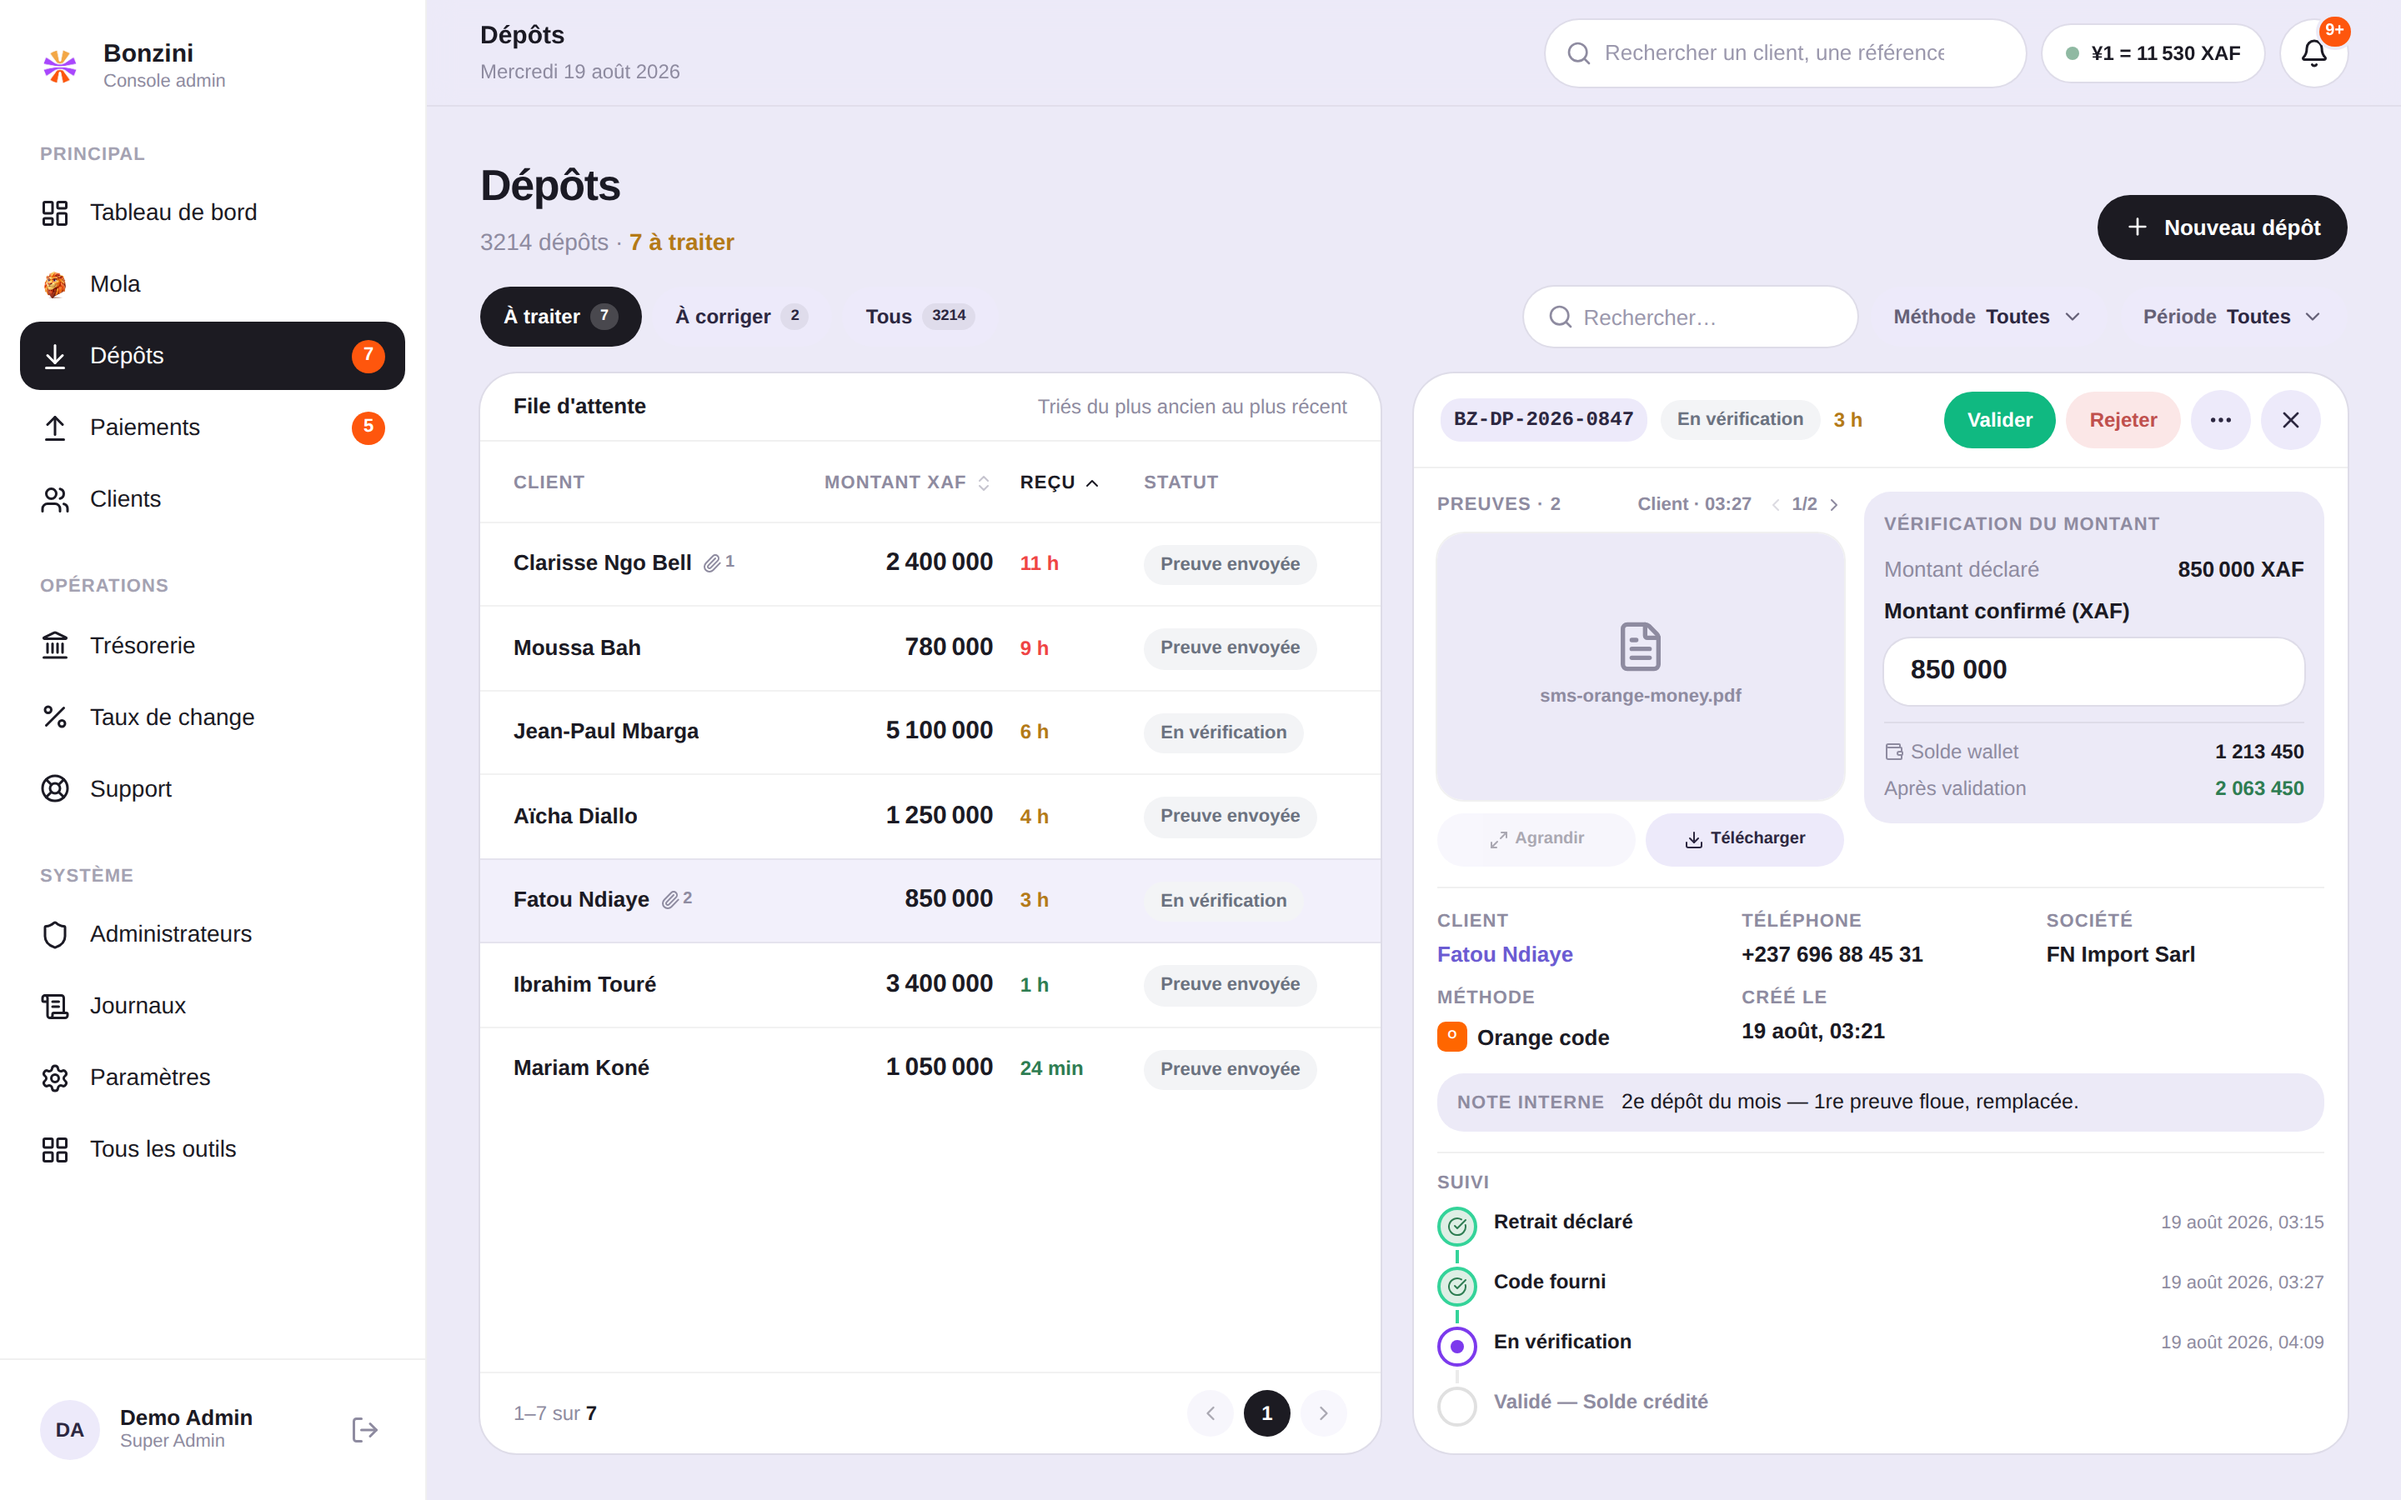
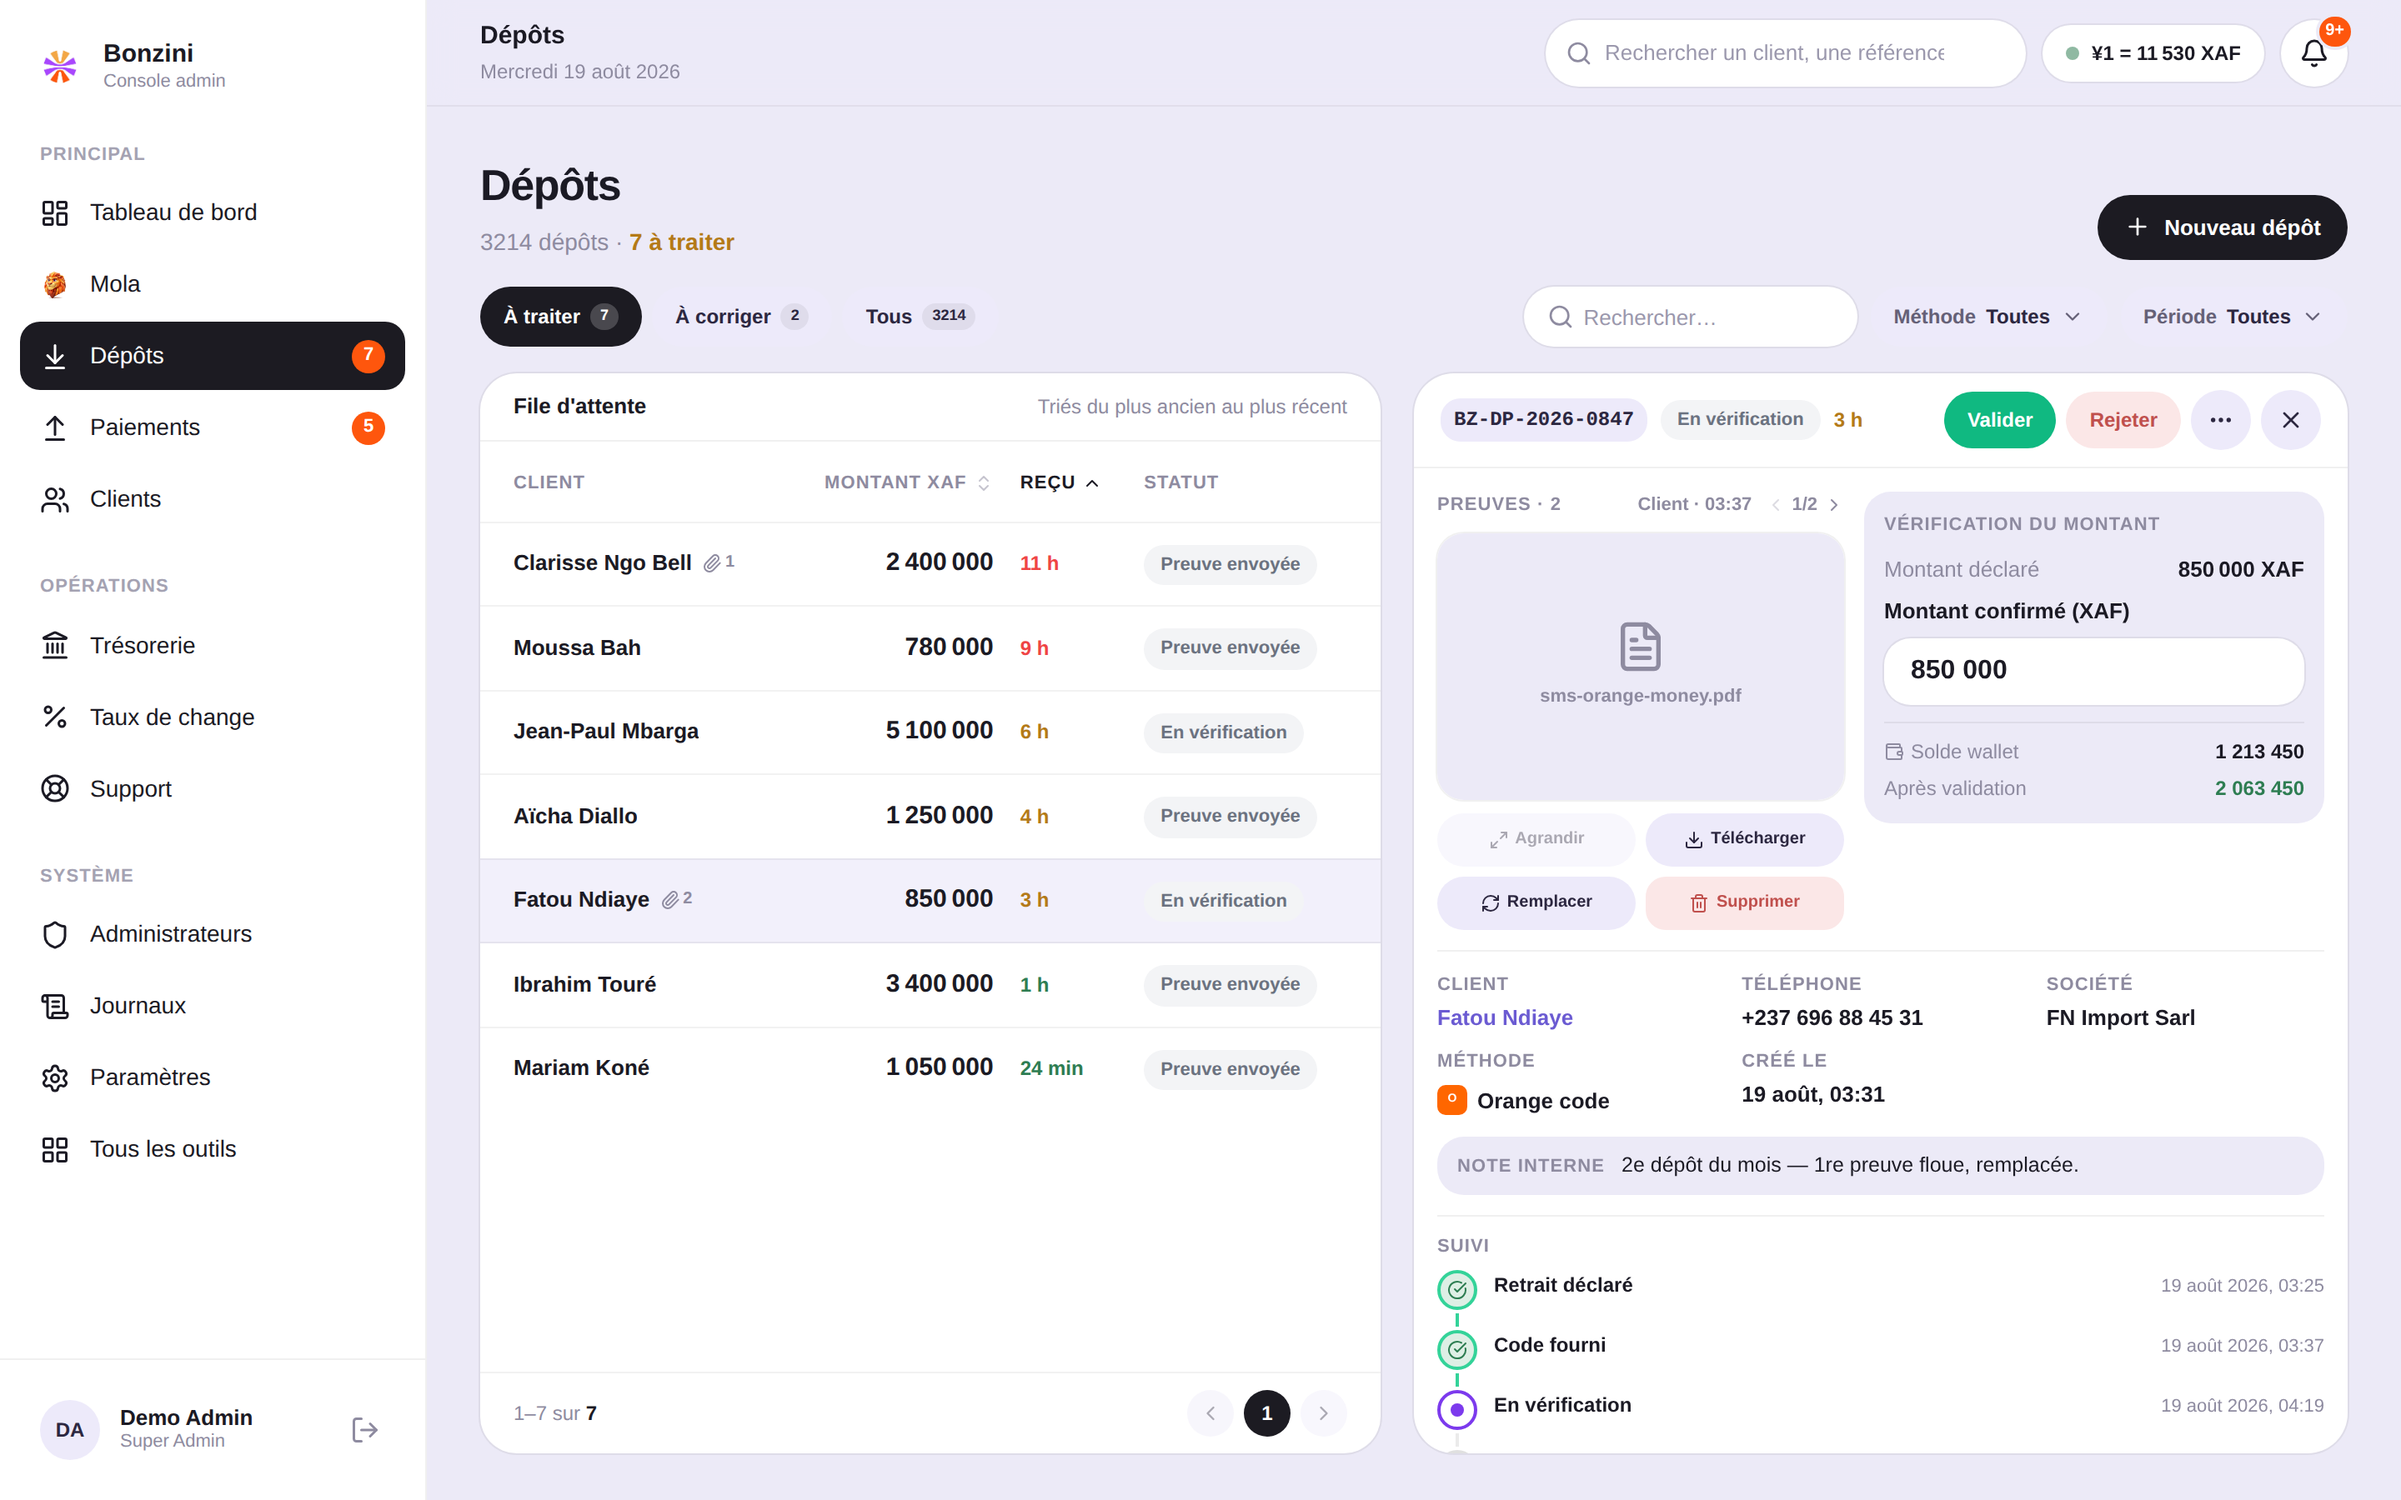
Deposit panel: proof replace/delete with reasoned audit trail; accurate harness counters
- DesktopDepositPanel now covers the full proof lifecycle: view/lightbox/
  download, add (Ctrl+V), REPLACE (upload new version then traced delete of
  the old — same sequence as the mobile fiche) and DELETE behind a mandatory
  reasoned dialog (PROOF_DELETE_REASONS + free text for Autre)
- adminFixtures.headCount now mirrors usePaymentStats' per-status eq-count
  queries exactly — the fixture-only '11744 à traiter' artifact is gone

Claude-Session: https://claude.ai/code/session_019kCQrbrB6qBu75nMSyyPWR

diff --git a/src/desktop/screens/deposits/DesktopDepositPanel.tsx b/src/desktop/screens/deposits/DesktopDepositPanel.tsx
@@ -11,7 +11,7 @@
  * Fixes the audit's permission gap: every action is gated on
  * hasPermission('canProcessDeposits'), not on status alone.
  */
-import { useState, useEffect, useCallback } from 'react';
+import { useState, useEffect, useCallback, useRef } from 'react';
 import { useNavigate, useSearchParams } from 'react-router-dom';
 import {
   useAdminDepositDetail,
@@ -22,9 +22,10 @@ import {
   useRejectDeposit,
   useStartDepositReview,
   useAdminUploadProofs,
+  useAdminDeleteProof,
   useCancelDeposit,
 } from '@/hooks/useAdminDeposits';
-import { DEPOSIT_STATUS_LABELS, DEPOSIT_METHOD_LABELS_SHORT, REJECTION_REASONS } from '@/types/deposit';
+import { DEPOSIT_STATUS_LABELS, DEPOSIT_METHOD_LABELS_SHORT, REJECTION_REASONS, PROOF_DELETE_REASONS } from '@/types/deposit';
 import { buildDepositTimelineSteps, getDepositSlaLevel } from '@/lib/depositTimeline';
 import { getFamilyFromMethod } from '@/lib/depositsList';
 import { formatCurrency } from '@/lib/formatters';
@@ -64,6 +65,7 @@ import {
   Download,
   MoreHorizontal,
   Plus,
+  RefreshCw,
   Trash2,
   Wallet,
   X,
@@ -77,6 +79,7 @@ import { DepositReceiptPDF, type DepositReceiptData } from '@/lib/pdf/templates/
 import { PasteDropZone } from '@/components/upload/PasteDropZone';
 import { FilePreviewGrid } from '@/components/upload/FilePreviewGrid';
 import { usePasteFiles } from '@/hooks/usePasteFiles';
+import { partitionUploadFiles, rejectionMessage, ACCEPT_UPLOAD } from '@/lib/clipboardFiles';
 
 function fmt(n: number) {
   return Math.abs(n).toString().replace(/\B(?=(\d{3})+(?!\d))/g, ' ');
@@ -138,6 +141,7 @@ export function DesktopDepositPanel({ depositId }: { depositId: string }) {
   const rejectDeposit = useRejectDeposit();
   const startReview = useStartDepositReview();
   const uploadProofs = useAdminUploadProofs();
+  const deleteProof = useAdminDeleteProof();
   const cancelDeposit = useCancelDeposit();
 
   const [proofIndex, setProofIndex] = useState(0);
@@ -155,6 +159,11 @@ export function DesktopDepositPanel({ depositId }: { depositId: string }) {
   const [selectedFiles, setSelectedFiles] = useState<File[]>([]);
   const [menuOpen, setMenuOpen] = useState(false);
   const [isGeneratingPDF, setIsGeneratingPDF] = useState(false);
+  const [deleteProofId, setDeleteProofId] = useState<string | null>(null);
+  const [deleteProofReason, setDeleteProofReason] = useState('');
+  const [customDeleteReason, setCustomDeleteReason] = useState('');
+  const [replaceProofId, setReplaceProofId] = useState<string | null>(null);
+  const replaceFileRef = useRef<HTMLInputElement>(null);
 
   useEffect(() => {
     if (deposit) setConfirmedAmount(deposit.amount_xaf.toString());
@@ -234,6 +243,52 @@ export function DesktopDepositPanel({ depositId }: { depositId: string }) {
       },
     );
   }, [depositId, rejectionCategory, clientMessage, adminNote, rejectDeposit]);
+
+  const handleDeleteProof = useCallback(() => {
+    if (!deleteProofId) return;
+    const reason = deleteProofReason === 'Autre' ? customDeleteReason : deleteProofReason;
+    if (!reason) return;
+    deleteProof.mutate(
+      { proofId: deleteProofId, depositId, reason },
+      {
+        onSuccess: () => {
+          setDeleteProofId(null);
+          setDeleteProofReason('');
+          setCustomDeleteReason('');
+          setProofIndex(0);
+        },
+      },
+    );
+  }, [deleteProofId, depositId, deleteProofReason, customDeleteReason, deleteProof]);
+
+  // Remplacement : upload de la nouvelle version PUIS suppression tracée de
+  // l'ancienne (même séquence que la fiche mobile — jamais l'inverse).
+  const handleReplaceFileSelect = useCallback(
+    (e: React.ChangeEvent<HTMLInputElement>) => {
+      const picked = e.target.files?.[0];
+      if (replaceFileRef.current) replaceFileRef.current.value = '';
+      if (!picked || !replaceProofId || !deposit) return;
+      const { accepted, rejected } = partitionUploadFiles([picked]);
+      const problem = rejectionMessage(rejected);
+      if (problem) {
+        toast.error(problem);
+        setReplaceProofId(null);
+        return;
+      }
+      const file = accepted[0];
+      const oldProofId = replaceProofId;
+      setReplaceProofId(null);
+      uploadProofs.mutate(
+        { depositId, userId: deposit.user_id, files: [file], depositStatus: deposit.status },
+        {
+          onSuccess: () => {
+            deleteProof.mutate({ proofId: oldProofId, depositId, reason: 'Remplacée par une nouvelle version' });
+          },
+        },
+      );
+    },
+    [replaceProofId, deposit, depositId, uploadProofs, deleteProof],
+  );
 
   const handleUpload = useCallback(() => {
     if (!deposit || selectedFiles.length === 0) return;
@@ -457,6 +512,29 @@ export function DesktopDepositPanel({ depositId }: { depositId: string }) {
                     <Download className="h-3 w-3" /> Télécharger
                   </a>
                 </div>
+                {canProcess && !isLocked && (
+                  <div className="mt-1.5 flex gap-1.5">
+                    <button
+                      type="button"
+                      disabled={uploadProofs.isPending}
+                      onClick={() => {
+                        setReplaceProofId(proof.id);
+                        replaceFileRef.current?.click();
+                      }}
+                      className={cn('flex h-8 flex-1 items-center justify-center gap-1 rounded-lg text-[10px] font-semibold disabled:opacity-40', SOFT_PILL)}
+                    >
+                      <RefreshCw className="h-3 w-3" /> Remplacer
+                    </button>
+                    <button
+                      type="button"
+                      onClick={() => setDeleteProofId(proof.id)}
+                      className="flex h-8 flex-1 items-center justify-center gap-1 rounded-lg bg-[#FBE7E7] text-[10px] font-semibold text-[#C0504D] dark:bg-[#3A2526] dark:text-[#E79A9A]"
+                    >
+                      <Trash2 className="h-3 w-3" /> Supprimer
+                    </button>
+                  </div>
+                )}
+                <input ref={replaceFileRef} type="file" accept={ACCEPT_UPLOAD} onChange={handleReplaceFileSelect} className="hidden" />
               </>
             ) : (
               <div className="rounded-2xl border-2 border-dashed border-black/10 p-4 text-center dark:border-white/10">
@@ -774,6 +852,75 @@ export function DesktopDepositPanel({ depositId }: { depositId: string }) {
         <p className={cn('text-[13px]', TEXT.muted)}>
           Le dépôt sera marqué comme annulé et le solde ajusté si nécessaire. {clientName} — {fmt(deposit.amount_xaf)} XAF.
         </p>
+      </CenterDialog>
+
+      {/* ── Dialogue : supprimer une preuve (motif obligatoire, tracé) ──── */}
+      <CenterDialog
+        open={!!deleteProofId}
+        onClose={() => {
+          setDeleteProofId(null);
+          setDeleteProofReason('');
+          setCustomDeleteReason('');
+        }}
+        onConfirm={
+          deleteProofReason && (deleteProofReason !== 'Autre' || customDeleteReason) && !deleteProof.isPending
+            ? handleDeleteProof
+            : undefined
+        }
+        title="Supprimer cette preuve ?"
+        footer={
+          <>
+            <SoftPill
+              onClick={() => {
+                setDeleteProofId(null);
+                setDeleteProofReason('');
+                setCustomDeleteReason('');
+              }}
+              className="flex-1"
+            >
+              Annuler
+            </SoftPill>
+            <PrimaryPill
+              onClick={handleDeleteProof}
+              loading={deleteProof.isPending}
+              disabled={!deleteProofReason || (deleteProofReason === 'Autre' && !customDeleteReason)}
+              danger
+              className="flex-[1.4]"
+            >
+              Supprimer
+            </PrimaryPill>
+          </>
+        }
+      >
+        <div className="space-y-4">
+          <p className={cn('text-[13px]', TEXT.muted)}>Cette action est irréversible et journalisée avec son motif.</p>
+          <div className="grid grid-cols-2 gap-1.5">
+            {PROOF_DELETE_REASONS.map((reason) => (
+              <button
+                key={reason}
+                type="button"
+                onClick={() => setDeleteProofReason(reason)}
+                className={cn(
+                  'rounded-xl px-3 py-2 text-left text-[12.5px] font-semibold ring-1 transition-colors',
+                  deleteProofReason === reason
+                    ? 'bg-[#FBE7E7] text-[#C0504D] ring-[#C0504D]/40 dark:bg-[#3A2526] dark:text-[#E79A9A]'
+                    : cn(SURFACE.canvas, 'ring-transparent', TEXT.strong),
+                )}
+              >
+                {reason}
+              </button>
+            ))}
+          </div>
+          {deleteProofReason === 'Autre' && (
+            <textarea
+              value={customDeleteReason}
+              onChange={(e) => setCustomDeleteReason(e.target.value)}
+              rows={2}
+              placeholder="Précisez le motif…"
+              className={cn('w-full resize-none rounded-2xl p-3 text-[14px] outline-none', SURFACE.canvas, TEXT.strong, 'placeholder:text-[#9B98AD] focus:ring-2 focus:ring-[#C9C2F0] dark:focus:ring-[#4A4660]')}
+            />
+          )}
+        </div>
       </CenterDialog>
 
       {/* ── Visionneuse plein écran ─────────────────────────────────────── */}
